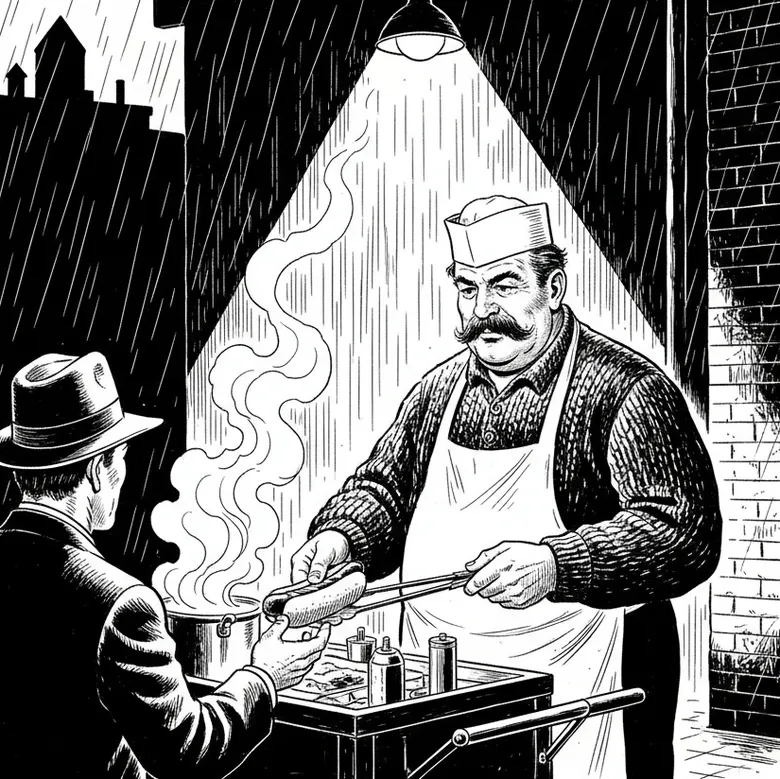
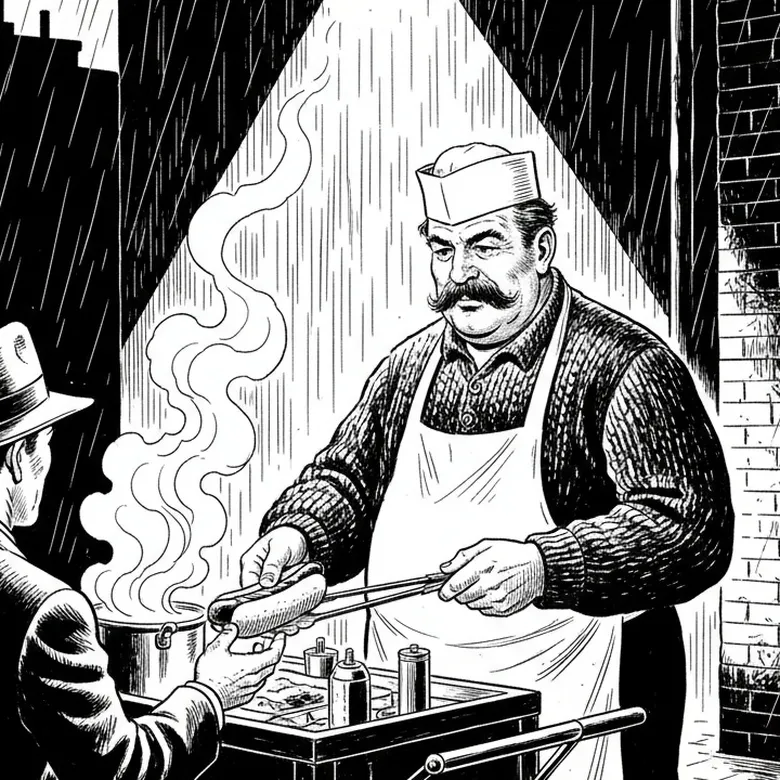
Zooma in på korvgubben i rollbilden
Claude-Session: https://claude.ai/code/session_01X82C4B4RZbhi8jba26Vsx1

diff --git a/src/scenes/sceneImages.js b/src/scenes/sceneImages.js
@@ -45,7 +45,7 @@ export const SCENE_IMAGES = /** @type {const} */ ({
   roleTaxiDriver: { src: roleTaxiDriver, alt: 'En taxichaufför i keps lutar sig ut genom bilrutan en regnig natt. Bakom taxin står en man i en hotellentré.', position: '50% 40%' },
   roleWindowWatcher: { src: roleWindowWatcher, alt: 'En kvinna i morgonrock och papiljotter drar undan en spetsgardin och spanar ut i mörkret.', position: '50% 30%' },
   roleBartender: { src: roleBartender, alt: 'En bartender i väst och fluga torkar bardisken under en lampa, med flaskor bakom sig.', position: '50% 30%' },
-  roleSausageVendor: { src: roleSausageVendor, alt: 'En korvgubbe med mustasch och pappersmössa räcker fram en korv med en tång i regnet.', position: '50% 40%' },
+  roleSausageVendor: { src: roleSausageVendor, alt: 'En korvgubbe med mustasch och pappersmössa räcker fram en korv med en tång i regnet.', position: '50% 30%' },
   roleGodfather: { src: roleGodfather, alt: 'En äldre man i mörk kostym sitter med hopknäppta händer bakom ett skrivbord i persiennernas skugga.', position: '50% 35%' },
   roleMayor: { src: roleMayor, alt: 'En borgmästare med ämbetskedja höjer handen på trappan framför stadshuset.', position: '50% 25%' },
   roleMadman: { src: roleMadman, alt: 'En man med rufsigt hår och stirrande ögon sitter fastbunden på en sjukhussäng och flinar.', position: '50% 30%' },
